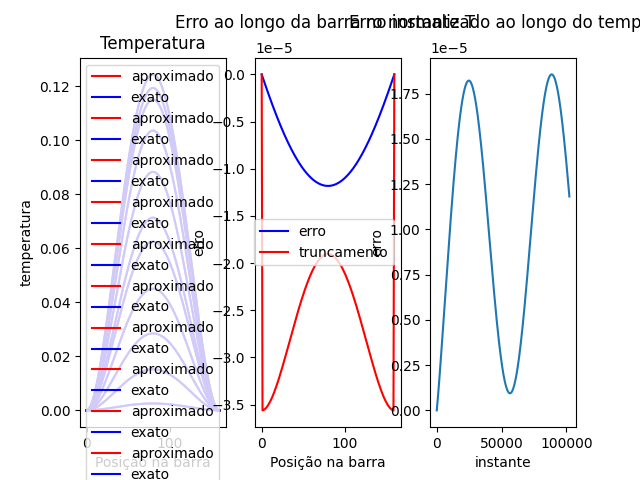
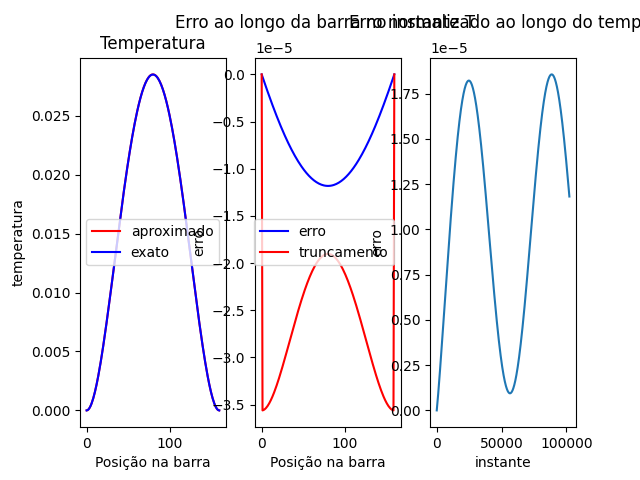
comit para salvar

Changed region(s): [[0.0, 0.125, 0.3438, 1.0]]

diff --git a/Exercicio2.py b/Exercicio2.py
@@ -143,13 +143,18 @@ def main():
             tik_array = np.zeros((M + 1, N + 1), dtype = np.float64)
         #Talvez possamos eliminar uma linha e 2 colunas de cada uma dos arrays de erro e truncamento, mas resolvi manter para ser diretamente endereçados a matriz de resultado aproximado
 
-            A_arrary = np.zeros((2, N - 1), dtype = np.float64)
+            A_P_arrary = np.zeros((N - 1), dtype = np.float64)
+            A_S_arrary = np.zeros((N - 1), dtype = np.float64)
             #building A_arrary
             for i in range(N - 1):
-                for k in range(2):
-                    A_arrary[k][i]
+                A_P_arrary[i] = 1 + 2*lambd
+            for i in range(1, N - 1):
+                A_S_arrary[i] = -lambd
 
             resolution_a(N, M, uik_array, true_uik_array, eik_array, tik_array, Dx, Dt)
+
+
+
 
             #erro normalizado
             enorm = np.zeros((M + 1, 1), dtype = np.float64)
